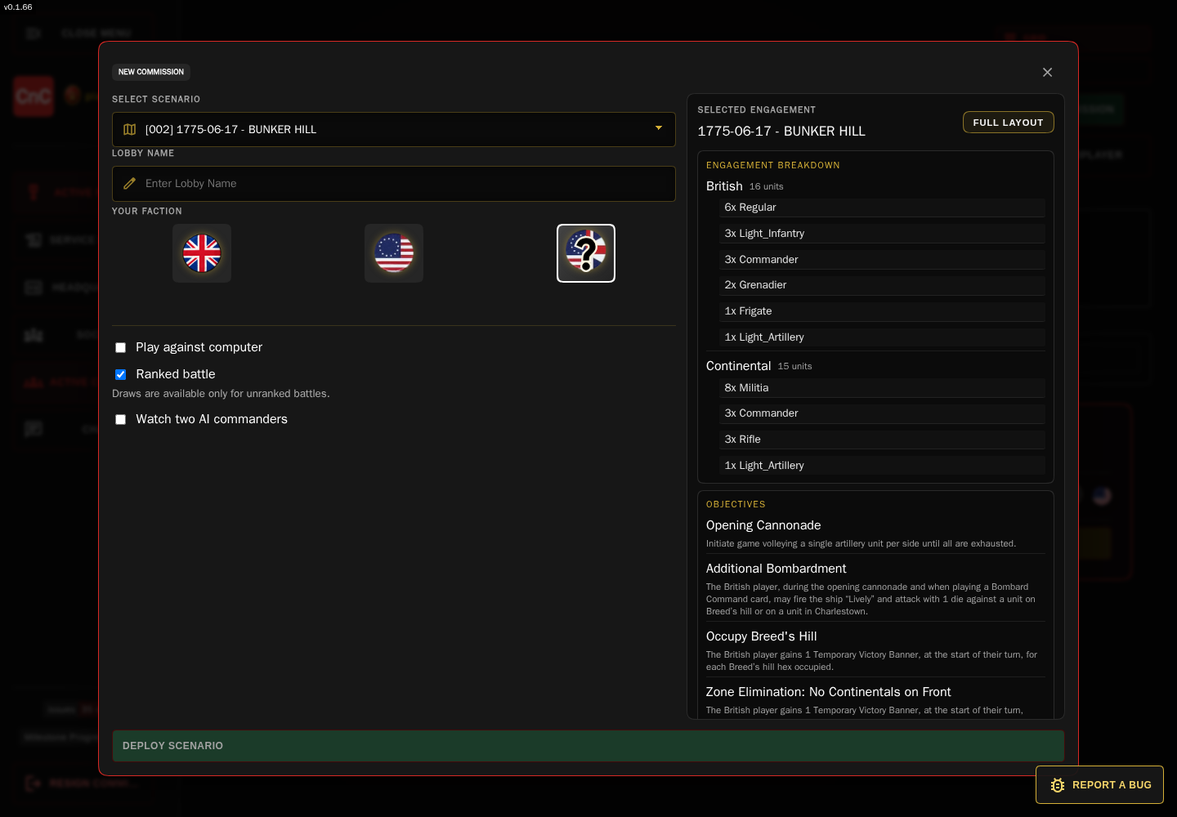
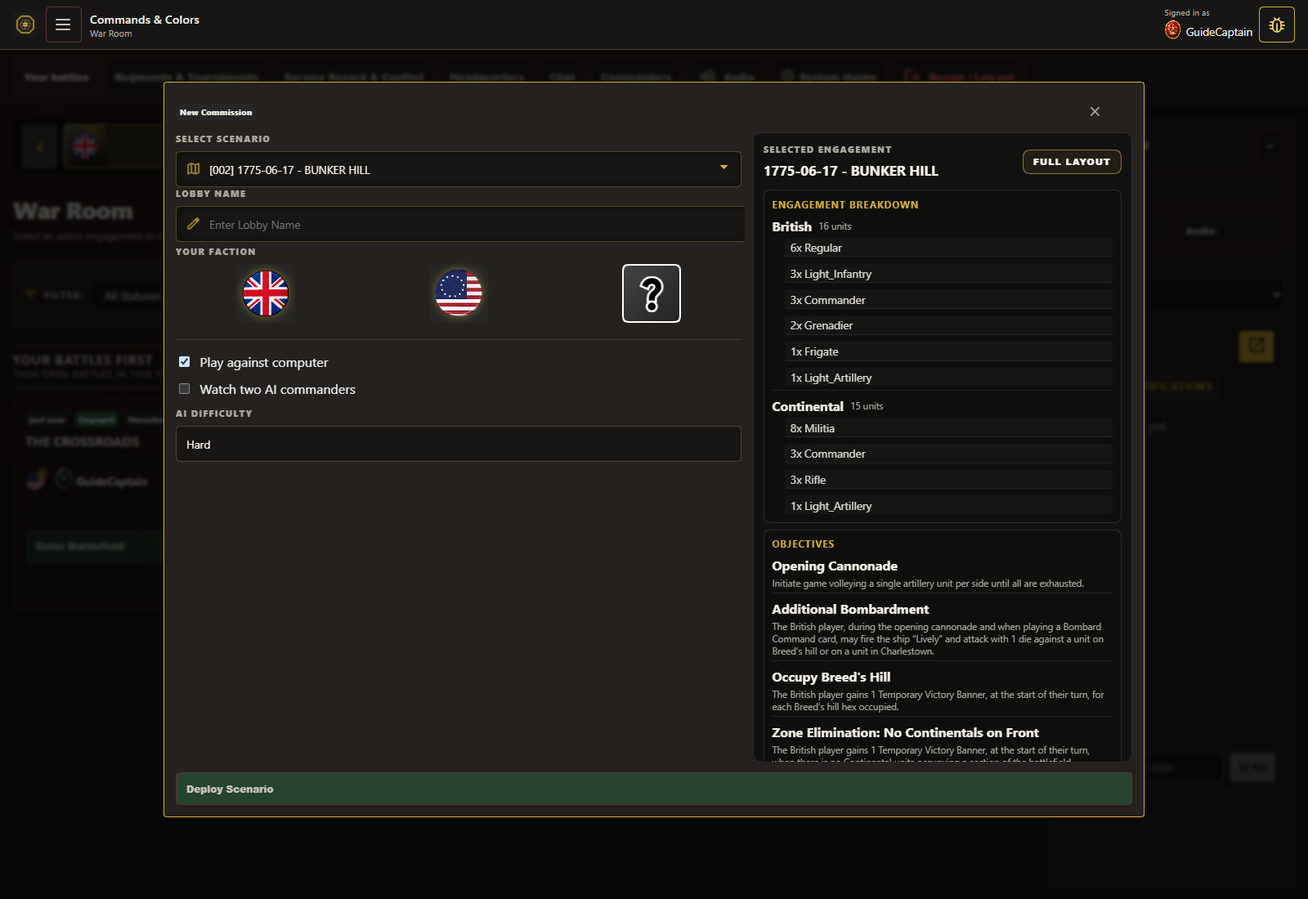
Refresh player guides and AI documentation

diff --git a/docs/ai-guide.md b/docs/ai-guide.md
@@ -1,91 +1,68 @@
-# AI Opponents: skill levels, tactics, and decision-making (Work-In-Progress)
+# AI Opponents: how Tricorne AI makes decisions
 
 [← Return to the Commands & Colors field guide](userguide.md)
 
-The Tricorne AI is an active battlefield opponent, not a random move generator. It chooses from actions that are legal in the current game state, estimates their tactical and objective value, and uses a bounded search to compare short action sequences. Difficulty changes how far and how broadly it searches—and how much variation it allows among near-equal choices.
+Commands & Colors: Tricorne offers two computer-controlled play modes: play against one computer opponent, or watch two AI commanders play each other. The AI runs on the game server. It selects from actions the server says are legal, compares their tactical value with a bounded search, and submits its choice through the same authoritative action flow used by players.
 
-## Choose how you want to play
+AI games are unranked. The AI uses the same Tricorne rules as human commanders; difficulty changes the size and depth of its search, not dice, unit capabilities, or combat outcomes.
 
-| Commission option | What happens |
+## Choose a mode
+
+| New Commission option | What happens |
 | --- | --- |
-| **Play against computer** | You command one faction; an AI commander occupies the opposing seat. Choose British, Continental, or Random as your faction. |
-| **Watch two AI commanders** | Both faction seats are controlled by AI commanders. The game opens for you to observe their engagement. |
+| **Play against computer** | Choose British, Continental, or Random. You command one side and the AI commands the opposing side. |
+| **Watch two AI commanders** | The server assigns an AI commander to each side. Open the game to spectate. |
 
-Both modes expose **AI Difficulty** and **Battle Pace**. In watch mode, the selected difficulty is assigned to both AI seats.
+Choose an **AI Difficulty** before deployment. In watch mode the selected difficulty applies to both AI commanders. AI settings are currently part of Tricorne's New Commission flow.
 
 <figure>
-  <img src="images/userguide-ai-opponent.png" alt="New Commission setup with Play against computer selected, Medium difficulty, and the Battle Pace control" width="100%">
-  <figcaption>Choose an opponent strength and action pace before deploying your AI battle.</figcaption>
+  <img src="images/userguide-ai-opponent.png" alt="Dark-mode New Commission dialog with Play against computer selected, Hard difficulty, and the Bunker Hill force and objective preview" width="100%">
+  <figcaption>Choose a human-versus-AI engagement and set the computer's difficulty before deployment.</figcaption>
 </figure>
 
 <figure>
-  <img src="images/userguide-ai-vs-ai.png" alt="New Commission setup with Watch two AI commanders selected and AI difficulty and pace controls visible" width="100%">
-  <figcaption>Watch mode puts an AI commander on each side of the map.</figcaption>
+  <img src="images/userguide-ai-vs-ai.png" alt="Dark-mode New Commission dialog with Watch two AI commanders selected and Brutal difficulty" width="100%">
+  <figcaption>Watch mode lets you follow an AI-controlled engagement from both sides.</figcaption>
 </figure>
 
-## Difficulty levels
+## What difficulty changes
 
-The four settings are **Easy**, **Medium**, **Hard**, and **Brutal**. They use the same game rules and action evaluator; the settings change search depth, how many candidate sequences are kept, how future steps are discounted, and how widely the AI may vary from the top score.
+The shared AI planner uses these search profiles:
 
-| Level | Search depth | Beam width | Future-score discount | Near-best variation |
+| Difficulty | Look-ahead depth | Beam width | Candidate limit per node | Future-score discount |
 | --- | ---: | ---: | ---: | ---: |
-| **Easy** | 1 step | 3 sequences | 0.80 | 0.45 |
-| **Medium** | 2 steps | 5 sequences | 0.82 | 0.18 |
-| **Hard** | 3 steps | 8 sequences | 0.86 | 0.06 |
-| **Brutal** | 4 steps | 12 sequences | 0.90 | 0 |
+| **Easy** | 1 step | 3 | 9 | 0.80 |
+| **Medium** | 2 steps | 5 | 15 | 0.82 |
+| **Hard** | 3 steps | 8 | 24 | 0.86 |
+| **Brutal** | 3 steps | 8 | 30 | 0.90 |
 
-**Search depth** is a short look-ahead through compatible actions in the current decision context—not a search through every future turn of the whole battle. **Beam width** is how many of the best partial sequences survive each search layer. A higher discount keeps more value on follow-up actions deeper in that sequence.
+**Depth** is the number of hypothetical actions the planner can look ahead. **Beam width** is how many of the strongest partial plans it keeps at each step. The **candidate limit** caps how many options it retains from each decision point, and the **discount** reduces the influence of later steps in a plan. The server also caps planning work at 2,048 expanded nodes and 5 seconds per decision; a search can stop earlier when it has enough information or reaches a limit.
 
-The variation value is a score window, not a chance of making an illegal move. The AI first finds the best sequence score, then—when variation is enabled—may choose among other candidates inside a tolerance based on that score. Easy therefore has a broader near-best choice window; Hard has a narrower one; Brutal selects the top-scoring candidate without score-noise selection. It does not receive extra dice or different unit statistics at higher difficulty.
+Brutal is not a four-step search: it has the same depth and beam width as Hard, but can keep more candidates and gives later actions more weight. Hard and Brutal are more thorough within the current decision; neither searches every possible line through the entire battle.
 
-**Battle Pace** is separate from difficulty. The slider controls the delay between AI actions (100–3,000 ms; the default is 800 ms). Move it lower for a faster game or higher to make each decision easier to follow.
+## How a decision is made
 
-## What happens when the AI takes a turn
+1. **Read the current server state.** The Tricorne adapter builds a versioned view for the AI's controller. It keeps the opponent's private information and hidden random state out of the planner's observation.
+2. **Collect legal candidates.** The adapter uses the server's current legal actions and variant rules to create typed choices. Candidate identifiers are opaque to the shared planner.
+3. **Describe each choice with features.** The adapter supplies numeric evidence for relevant factors such as objective progress, expected damage and losses, retaliation, flags, survival, card use and cost, position, follow-up value, tactical value, and risk.
+4. **Compare short plans.** The planner scores the candidates and uses cloned, hypothetical states to project selected order and movement actions. It keeps the strongest branches within the difficulty profile and work limits.
+5. **Submit one choice and evaluate again.** The adapter resolves the selected candidate back to a typed Tricorne intent. The server validates it against the current authoritative state and version, applies it through the normal game transaction, and plans again from the updated state.
 
-1. **Wait for control.** The AI acts when its faction is allowed to act and the game is in progress. Battle Pace limits how quickly it takes another action.
-2. **Build a decision view.** The AI reads the current phase, board and units, its own hand, order pool, victory totals, scenario objectives, and recent public game history.
-3. **Generate legal choices for that phase.** Depending on the phase, its options can include choosing a Move First card, playing a command or combat card, ordering units, moving, attacking, retiring artillery, retreating, ignoring flags, advancing, or ending the phase.
-4. **Score the choices.** Card, movement, combat, target, survival, and objective features contribute to an action score.
-5. **Compare short sequences.** A lightweight simulation updates a candidate board state as the search expands. The AI keeps the strongest sequences allowed by its difficulty settings, executes the first action in the chosen sequence, and evaluates again from the updated live game state.
+The AI's feature scores are estimates used to compare choices. For example, it can value progress toward an objective, weigh the expected damage and retaliation of an attack, and consider whether a combat card is worth spending. The feature values depend on the current board and legal action; the planner does not award a fixed bonus for every feature on every turn.
 
-The opponent uses the game’s board, movement, card, and combat services to form and execute actions. For attacks, its evaluator estimates expected hits, flags, kill probability, and retaliation from dice, range, movement, traits, and leader support. These are planning estimates; actual combat still resolves through the game’s normal dice and combat process.
+The search is deterministic for identical candidates and feature evidence: candidates are ordered by score with an opaque identifier used to break ties. It does not add random score noise to choose a weaker near-best option.
 
-## How it weighs options
+## The AI does not resolve its own combat
 
-The evaluator combines only the features relevant to a candidate action. These are the current score coefficients; a feature value is supplied by the action generator, so a weight is not a fixed bonus every action receives.
+The AI proposes a legal intent; it does not author dice, hits, flags, casualties, retreats, or a final combat result. The authoritative Tricorne rules and server-generated random results resolve those outcomes. Required decisions and follow-ups remain explicit game state, and the AI plans from the state the server accepts.
 
-| Feature | Score contribution | Why it matters |
-| --- | ---: | --- |
-| Expected damage | **+10 ×** | Rewards expected blocks removed from an enemy unit. |
-| Expected losses | **−8 ×** | Penalizes expected friendly losses. |
-| Expected retaliation | **−6 ×** | Accounts for likely counter-damage. |
-| Expected flags | **+2 ×** | Values pressure that may force an enemy retreat. |
-| Objective progress | **+9 ×** | Increases to **+10.35 ×** while behind on victory points. |
-| Banner value | **+12 ×** | Prioritizes scoring progress. |
-| Survival | **+5 ×** | Favors safe retreats, rallies, and staying power. |
-| Defensive value | **+3 ×** | Values useful protective positions or effects. |
-| Continuation, combo, card, trait, formation | **+4 ×**, **+4 ×**, **+3 ×**, **+4 ×**, **+4 ×** | Rewards useful follow-ups, card utility, special abilities, and formations. |
-| Tactical value / attack priority | **+2 ×** each | Adds context for a tactically useful action or target. |
-| Target priority | **+3 ×** | Helps choose a valuable defender. |
-| Risk | **−5 ×** | Penalizes dangerous options. |
-| Commitment | **−2 ×** normally; **−1 ×** while behind | Makes the AI more willing to commit when it needs to catch up. |
+This means the AI can estimate that an attack or position looks promising and still lose the exchange when the actual server-resolved result is poor. Higher difficulty improves the search within its limits; it does not guarantee a win or change the rules.
 
-The score also applies a small penalty to ending the phase, so the AI does not pass simply because passing is safe when a useful legal action remains.
+## Scope and limits
 
-### Cards and objectives
+- Search depth covers a short sequence in the current decision context. The AI replans after each accepted action instead of committing to a whole battle plan.
+- The planner is bounded and heuristic. It examines only a limited set of legal candidates and projected states; it is not exhaustive game-tree analysis and does not model every future opponent response.
+- The decision features and action meanings are supplied by the Tricorne adapter. The shared policy ranks opaque candidates without owning faction rules or interpreting card identities.
+- If a choice becomes stale before the server applies it, the server's current state and validation rules take precedence.
 
-For command cards, the AI estimates how many eligible units can actually use the card’s orders, which sections or unit types it can reach, and whether a matching scenario objective is active. It also considers useful card effects such as movement, volleys, melee bonuses, rally/reform, protection, reserve deployment, and forming a contiguous line. A card with no contextual benefit is sharply devalued; an order that can activate units on a relevant objective is more attractive.
-
-The board simulation values its own remaining blocks at **+0.15 each**, enemy blocks at **−0.10 each**, and the victory-point margin at **+4 per point**. Objective control is added separately: permanent and turn-start permanent objectives have a base weight of **4**, and other objective types a base weight of **2**; the resulting objective score is multiplied by **5**. Occupying objective hexes, controlling relevant sections, and matching a card to an objective can therefore influence both card selection and follow-up positioning.
-
-### Choosing a target
-
-The combat estimator considers the attacker’s dice after movement and trait adjustments, the defender’s remaining blocks, and expected retaliation. Target priority rises for damaged or unsupported formations and for valuable units such as leaders and artillery. Friendly support, terrain protection, ignored hits or flags, and defensive traits can reduce a target’s priority. This encourages the AI to look for vulnerable targets rather than simply selecting the nearest enemy.
-
-When the AI must choose **Retire and Rally** or stand, it compares estimated outcomes for both choices—including hits, ignored flags, rally dice, retreat distance, and possible follow-up advances or melee—and chooses the lower expected defensive cost.
-
-## What higher difficulty does—and does not—mean
-
-At higher settings, the AI examines more candidate steps and keeps a wider set of promising sequences for comparison. A lower-level setting is more likely to choose a good immediate action or a varied near-best option; a higher-level setting is more likely to preserve a setup that improves its later score. The levels do not change Tricorne rules, grant bonus dice, or guarantee a win.
-
-The search is deliberately bounded and heuristic. It evaluates the current phase’s legal-action pool and a simplified simulated board; it is not exhaustive full-game analysis and does not model every possible future opponent response. That makes the four settings useful for different table paces and challenge preferences without changing the battlefield rules.
+Use **Easy** for a lighter opponent, **Medium** for a balanced challenge, and **Hard** or **Brutal** when you want the planner to spend more of its bounded search on candidate comparison. These are play preferences, not promises of a particular result.

diff --git a/README.md b/README.md
@@ -5,145 +5,19 @@
 - [AI Opponents Guide](docs/ai-guide.md)
 <!-- END PUBLIC PLAYER GUIDES -->
 
-# Commands & Colors Tactical Portal: Architecture Overview
+# Commands & Colors: Tricorne
 
-This document outlines the architecture, technology stack, and functional design of the Commands & Colors Tactical Portal. The system is engineered to be highly modular and service-oriented, ensuring that the core game logic is decoupled from the UI, making it easily extensible to any new commands and color variants.
+This public repository hosts player documentation and the issue tracker for the Commands & Colors: Tricorne browser portal. The guides describe the current portal interface and its available play modes; they are not a replacement for the rules in the published board game.
 
----
+## What you can do
 
-## 0. Legal & Attribution: The Commands & Colors System
+- Browse scenarios and commission a battle in the War Room.
+- Play against another commander, play against the Tricorne computer opponent, or spectate.
+- Use the battlefield map, command cards, movement and attack previews, combat flow, and command history.
+- Follow commander records and community features, including friends, regiments, and tournament tools that are still evolving.
 
-*Please Note: I am taking absolutely no credit for the underlying game mechanics, rules, or the incredible system this project is based upon. This is entirely a fan project, and the true credit goes to the brilliant minds who originally created and published these games.*
+## Report a problem
 
-The **Commands & Colors** game system is a masterclass in wargame design, striking a perfect balance between accessibility, historical flavor, and deep tactical gameplay. All rights, concepts, and core mechanics belong solely to the original designer and the respective publishers.
+Use **Report a Bug** in the portal or [open an issue](https://github.com/rmroc451/commands-and-colors-issues/issues/new/choose). Include steps to reproduce the problem, the scenario and game phase, what you expected, and what happened. Issues are public; remove passwords, private messages, and personal information from reports and screenshots.
 
-### The Designer
-
-The Commands & Colors system was invented and designed by [**Richard Borg**](https://en.wikipedia.org/wiki/Richard_Borg), an incredibly prolific game designer. His amazing work has spawned one of the most successful, adaptable, and universally beloved families of board games in the tabletop hobby. Borg's innovative system has successfully modeled warfare from the ancient world through to science fiction.
-
-### Support the Publishers (Buy the Games!)
-
-If you enjoy this system or find this project useful, I highly encourage you to purchase the physical board games. They feature fantastic tactile components, beautiful maps, and countless expansions that significantly deepen the experience. You can find and support the publishers directly at the links below:
-
-* [**GMT Games**](https://www.gmtgames.com/)
-  *GMT is the powerhouse behind the core historical titles in the series. They are the publishers of:*
-
-  * *Commands & Colors: Ancients (Focusing on the Classical world, Punic Wars, etc.)*
-
-  * *Commands & Colors: Napoleonics*
-
-  * *Commands & Colors: Medieval*
-
-  * *Commands & Colors: Samurai Battles*
-
-* [**Days of Wonder**](https://www.daysofwonder.com/)
-  *Publishers of the massively popular World War II classic, **Memoir '44**. This game features extensive expansions covering the Eastern Front, Pacific Theater, and the Mediterranean.*
-
-* [**Compass Games**](https://www.compassgames.com/)
-  *Publishers of **Commands & Colors: Tricorne - The American Revolution**, focusing on the linear tactics of the 18th century.*
-
-* [**Plastic Soldier Company (PSC Games)**](https://www.theplasticsoldiercompany.co.uk/)
-  *Publishers of **The Great War**, which successfully adapts the system to the trench warfare and emergence of tanks in World War I, and **Red Alert: Space Fleet Warfare**, which takes the system into science fiction combat.*
-
-* [**Avalon Hill / Hasbro**](https://avalonhill.hasbro.com/)
-  *Publishers of **Battle Cry** (The American Civil War). This is the landmark game that originally launched the entire Commands & Colors system back in 2000.*
-
-
-## 1. Technology Stack
-
-| Component | Technology | Purpose |
-| :--- | :--- | :--- |
-| **Framework** | Angular | Component structure, dependency injection, and UI management. |
-| **Language** | TypeScript | Provides strong typing for all game models and logic. |
-| **State Management** | NgRx | Centralized, predictable state management for complex, relational game data. |
-| **UI/Grid** | CSS Grid / HTML5 Canvas | Rendering the Hex Grid efficiently. |
-| **Interactivity** | Angular CDK Drag and Drop | Handling user interactions, such as card placement and movement. |
-| **Backend API** | FastAPI (Python) | High-performance API layer handling authentication, REST endpoints, and WebSocket connections. |
-| **Real-time State** | Redis | Distributed, persistent storage for game state, user presence, and Pub/Sub messaging for low-latency updates. |
-| **Deployment** | Docker & Docker Compose | Containerization for consistent, scalable deployment across development and production environments. |
-
-### Backend & Infrastructure Analysis
-
-The backend is designed for high concurrency and low latency, leveraging a microservice approach:
-
-*   **FastAPI & WebSockets:** FastAPI provides a fast, asynchronous foundation, crucial for handling numerous simultaneous WebSocket connections required for real-time game updates. This decouples the game logic from traditional HTTP request/response cycles.
-*   **Redis as the Source of Truth:** Redis is the core persistence layer. It is used not just for simple key-value storage (game state, user data) but also for Pub/Sub (`cnc_room_updates`, `cnc_global_updates`), which enables efficient, broadcast-based communication between the server and all connected clients. This pattern ensures that state changes are immediately propagated to all relevant players without requiring constant polling.
-*   **Data Synchronization (JSON Patch):** The system utilizes JSON Patch operations for state updates (`handle_patch_data`). This allows clients to send granular, small updates to the server, minimizing bandwidth usage and ensuring that the server can validate and apply changes safely against the current state version, which is critical for maintaining data integrity in a distributed environment.
-*   **Scalable Deployment (Docker Compose):** The infrastructure is containerized using Docker and orchestrated via `docker-compose.prod.yaml`. This ensures that the game server, Redis, and Nginx frontend run in a consistent, reproducible environment, simplifying scaling and deployment across various hosting platforms. The multi-stage Dockerfile optimizes the final production image size by separating build dependencies from runtime requirements.
-*   **Background Processing:** Asynchronous tasks (like `prune_orphaned_data_task` and `pending_offers_reaper_task`) are run as background tasks, preventing long-running maintenance operations from blocking the main WebSocket event loop, thus maintaining responsiveness for active players.
-
----
-
-## 2. Core Data Models
-
-The foundation of the game state relies on strongly typed TypeScript interfaces:
-
-*   **`GameState`**: The central store tracking the current turn, active player, card hands, combat status, and victory conditions.
-*   **`Hex`**: Represents a single board tile, storing coordinates (`q, r, s`), terrain type, and elevation.
-*   **`Unit`**: Defines block stacks, tracking faction, unit type, current status, and leader attachment status.
-*   **`Card`**: The abstract structure for both **Command Cards** (tactics) and **Combat Cards**.
-
----
-
-## 3. Game Flow: The State Machine
-
-The game loop is managed by a state machine within an Angular Service, enforcing a strict sequence of phases:
-
-1.  **Play Command Card Phase:** Player selects and plays a Command Card.
-2.  **Order Phase:** Player selects valid units/leaders based on card restrictions.
-3.  **Movement Phase:** Ordered units are moved, validated against terrain and unit movement limits.
-4.  **Combat Phase:** Units attack, resolving Line of Sight (LoS), dice calculations, damage, and leader casualty checks.
-5.  **End Turn Phase:** Drawing replacement cards and checking for victory conditions.
-
----
-
-## 4. Logic Services (The Game Engine)
-
-Complex rules are encapsulated within dedicated services, ensuring clean separation of concerns.
-
-### A. `MovementService`
-*   **Functionality:** Handles pathfinding and movement validation.
-*   **Key Rules Implemented:**
-    *   **Terrain Costs:** Logic to halt movement or consume movement points upon entering specific terrain (Woods, Towns, Hills).
-    *   **Pass-through Rules:** Enforcing restrictions on movement through friendly vs. enemy units.
-    *   **Retreat Logic:** Separate validation logic to ensure units move towards their baseline for retreats.
-
-### B. `CombatService`
-This is the core resolution engine, utilizing pure functions for deterministic results.
-*   **Line of Sight (LoS):** Implements a hex-grid line-drawing algorithm to determine if ranged attacks are valid.
-*   **Dice Modifiers (Pre-Roll):** Calculates modifiers based on:
-    *   Unit Type and Range.
-    *   Movement penalties (e.g., -1 die if the unit moved and fired).
-    *   Terrain penalties (e.g., -1 die for firing into Woods/Towns).
-    *   Leader Bonuses (+1 die if an attached leader is present).
-    *   Active Card Modifiers (e.g., Bayonet Charge bonuses).
-*   **Dice Resolution (The Roll):** Rolls dice and resolves hits based on unit type and defensive modifiers.
-*   **Leader Casualty Checks:** Dedicated logic to roll multiple dice to determine if an attached leader is eliminated during combat.
-
-### C. `MoraleService` (Tricorne Mechanic Focus)
-This service handles the crucial Morale, Retreats, and Rallying mechanics.
-*   **Flag Resolution:** Calculates the retreat distance for every un-ignored Flag based on unit type.
-*   **Flag Ignoring:** Logic to determine if a Flag is ignored (e.g., supported by adjacent friendly units, or if a Leader is attached).
-*   **Rally Check:** After a unit retreats, this mechanic rolls dice (based on remaining blocks and leader bonuses) to determine if the unit survives the rout or is removed from the board.
-
----
-
-## 5. Command & Combat Card Architecture
-
-The card system uses the **Strategy Pattern** to define card behavior:
-
-*   **Section Cards:** Logic filters valid targets by checking hex coordinates against the current section's rules (e.g., Left/Center/Right mapping).
-*   **Tactic Cards:** These cards modify global `GameState` flags (e.g., setting a global melee modifier) for the duration of the turn.
-*   **Combat Cards:** These act as event listeners, triggering specific actions within the `CombatService` at defined points (e.g., `onBeforeDiceRolled`, `onAfterHitsCalculated`).
-
----
-
-## 🚀 Extensibility for Any Commands & Colors Game
-
-The architecture is inherently designed for rapid adaptation:
-
-1.  **Unit Customization:** New unit archetypes are added by simply defining new configuration objects that map directly to the existing statistical matrix (Move, Dice, Defense).
-2.  **Rule Modification:** New game rules (e.g., different retreat distances, unique morale checks) are isolated and implemented by modifying the specific logic within the dedicated **`MovementService`**, **`CombatService`**, or **`MoraleService`**.
-3.  **Card Definition:** New commands and tactics are added by creating new classes that implement the `Card` interface and define their specific effects, which interact with the global `GameState` or trigger service functions.
-
-By keeping the state management centralized (NgRx) and the rule logic decentralized (Services), the system remains robust, scalable, and perfectly suited to evolve into any new Commands & Colors variant.
+This is a fan-made digital project. Commands & Colors and the underlying game designs belong to their respective designers and publishers; this portal is not an official product or affiliated service.

diff --git a/docs/userguide.md b/docs/userguide.md
@@ -15,13 +15,13 @@ Commands & Colors: Tricorne brings scenario selection, command cards, hex-by-hex
   <figcaption><strong>The War Room</strong> — find a front to join, inspect a battle, or commission a new scenario.</figcaption>
 </figure>
 
-*Screenshots in this guide were captured with Playwright from a local demo session. Commander names, active games, scores, and available actions vary with live server data and account permissions.*
+*Screenshots in this guide were captured with Playwright in dark mode using a local demo fixture. Names and sample engagements are illustrative; live games, scores, and available actions vary with server data and account permissions.*
 
 ---
 
 ## 1. Muster in the War Room
 
-After signing in, **Active Fronts** is your operations board. Its engagement cards show the scenario, status, commanders, faction markers, and whether the battle is ranked or unranked. Use the controls to make a busy front easier to scan:
+After signing in, the **War Room** is your operations board. The **Your Battles First** area brings your engagements to the top, followed by other fronts in the selected theater. Engagement cards show the scenario, status, commanders, faction markers, and whether the battle is ranked or unranked. Use the controls to make a busy front easier to scan:
 
 - **Grid** gives each engagement its own card; **Split View** pairs a scrollable list with selected-game details.
 - Filter by status, including **Recruiting**, **Engaged**, **Awaiting Deployment**, and **Finished**.
@@ -52,7 +52,7 @@ Your setup choices include:
 | **Scenario** | Select an available Tricorne engagement. Examples in the scenario list include Bunker Hill, Long Island, Freeman’s Farm, Bemis Heights, Monmouth, and Cowpens. |
 | **Lobby name** | Give the engagement a name commanders can recognize in the War Room. |
 | **Your faction** | Choose British, Continental, or Random. |
-| **AI play modes (Work-In-Progress)** | Choose **Play against computer** for human-versus-AI, or **Watch two AI commanders** to observe both sides. See the [AI opponents guide](ai-guide.md) for skill levels and how the AI evaluates moves. |
+| **AI opponent** | For Tricorne, choose **Play against computer** to command one side or **Watch two AI commanders** to spectate both sides. Choose **AI Difficulty** before deployment. AI games are unranked. See the [AI opponents guide](ai-guide.md) for how the server AI chooses actions. |
 | **Ranked or unranked** | Ranked play is for eligible human multiplayer. AI battles are unranked; draws are available only in unranked games. |
 
 When the preview looks right, select **Deploy Scenario**. In multiplayer, other commanders can enlist in a recruiting engagement. Once both sides are present, players can enter the battlefield; other commanders can spectate.
@@ -114,7 +114,7 @@ For more context, map settings can show coordinates, map-point labels, terrain e
 
 ### Resolve combat together
 
-In a multiplayer engagement, the combat panel identifies the attacker and defender and shows the dice breakdown and relevant modifiers. The sides confirm their positions; the attacker rolls, and the interface presents the results before they are applied. When required, the flow includes a defender’s **Retire and Rally** choice, leader casualty checks, rally checks, and retreat handling. The result is applied after the required checks are complete.
+In an engagement, the combat panel identifies the attacker and defender and shows the dice breakdown and relevant modifiers. The game server resolves the roll and records the result; the interface presents it and guides the players through any required decisions, such as a defender’s **Retire and Rally** choice, leader casualty checks, rally checks, retreats, or follow-up actions. The board updates after the required steps are complete.
 
 This keeps the resolution sequence visible to both players rather than hiding the important decisions behind a single roll. Spectators can follow the engagement without taking the players’ actions.
 
